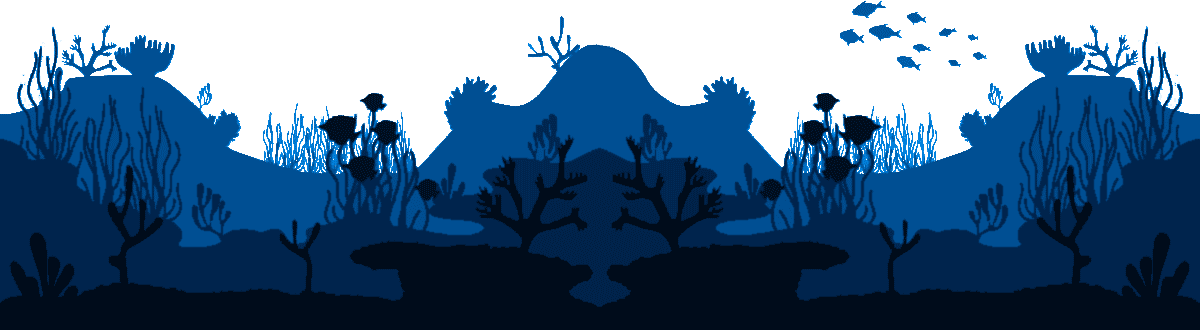
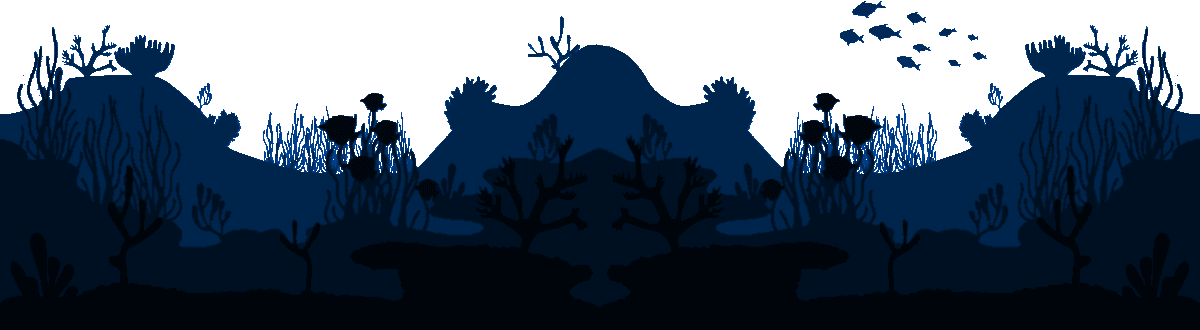
Remove backdrop-filter and darken background.

diff --git a/index.html b/index.html
@@ -85,12 +85,6 @@
       z-index: -2;
     }
 
-    #intro-bottom-blur {
-      backdrop-filter: brightness(0.4);
-      width: 100%;
-      height: 100%;
-    }
-
     .intro-link-container {
       padding: 12px 10px !important;
       position: relative;
@@ -342,9 +336,7 @@
 
     </div> <!-- end link row -->
 
-    <div id = "intro-bottom">
-      <div id = "intro-bottom-blur"></div>
-    </div>
+    <div id = "intro-bottom"></div>
 
   </div> <!-- end intro -->
 

diff --git a/main.css b/main.css
@@ -189,6 +189,9 @@ h1, h2 {
   .timeline-gap {
     height: 6px;
   }
+  .timeline-navbar {
+    background: unset;
+  }
 }
 
 @media only screen and (min-width: 1170px) {
